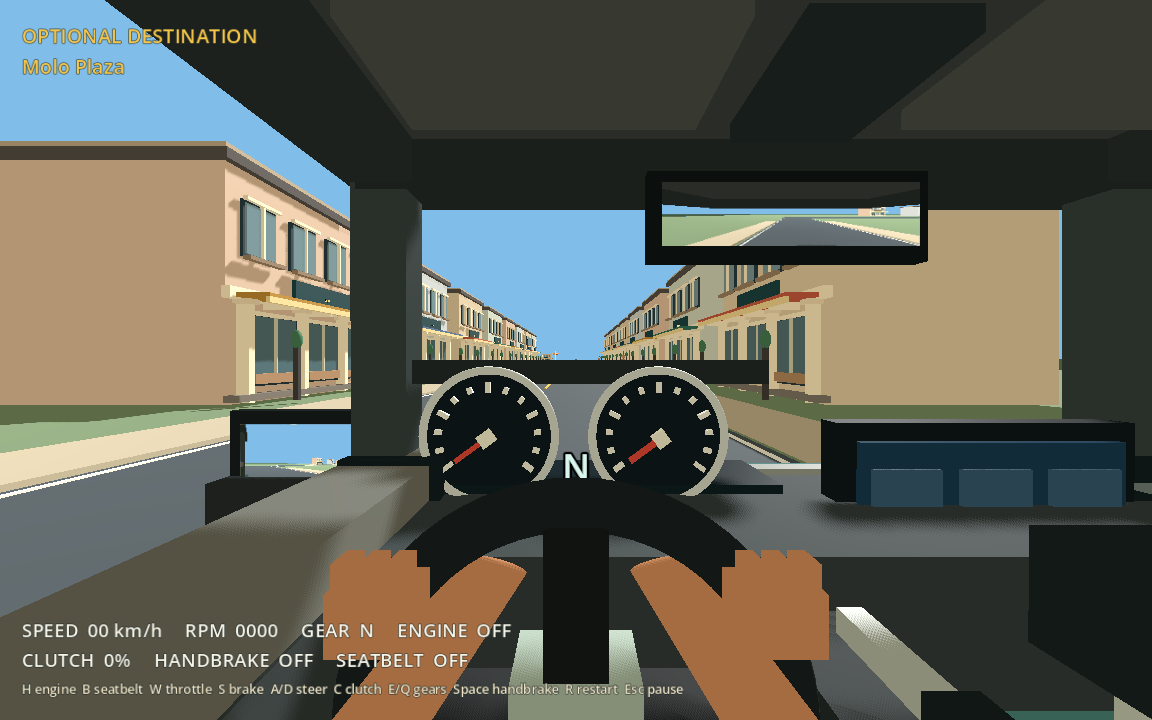
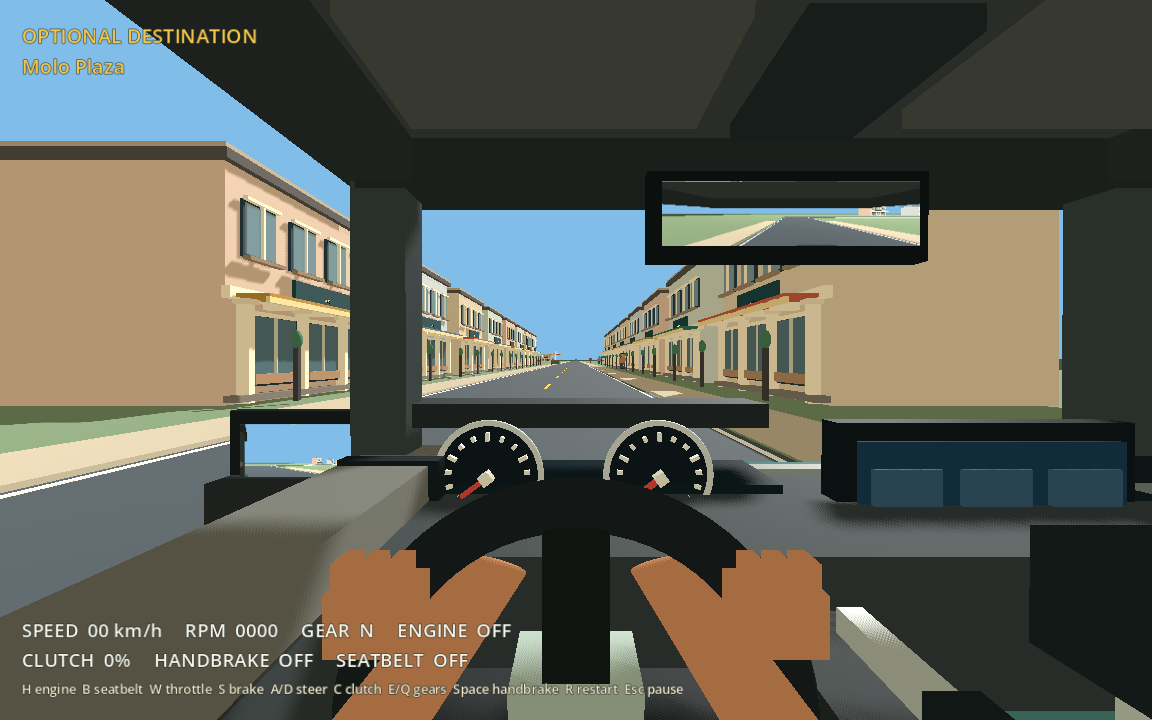
Lower cockpit gauges to reveal near road

diff --git a/README.md b/README.md
@@ -10,6 +10,8 @@ Open `build/ManiubraPrototype.app` on this Mac, or open `project.godot` in Godot
 
 The Open World visual pass includes a [Molo approach](docs/screenshots/open_world_molo.png) with a twin-spire church silhouette, a [roadside Molo Plaza sign](docs/screenshots/open_world_venue_sign.png) at the painted stopping bay, and a [Calle Real-inspired block](docs/screenshots/open_world_calle_real.png) with continuous heritage storefronts. The departure view now has a neighborhood market street rather than empty verges. The Iloilo River Esplanade area has water, a pedestrian frontage and bridge crossings. These are original stylized interpretations; fine architectural detail and the typical A–B travel time still need a manual driving pass.
 
+Open World now shows corrective toasts and records review events for a pedestrian hit, a traffic-vehicle collision, hitting a roadside stall, or crossing the [marked market stop line](docs/screenshots/open_world_stop_approach.png) without stopping. Rejected shifts, blocked ignition and engine stalls also show the same feedback there. The [pedestrian model](docs/screenshots/open_world_pedestrian_upright.png) has separate swinging arms and legs; a vehicle contact makes it [fall](docs/screenshots/open_world_pedestrian_fallen.png). This is a simple animated reaction, not a ragdoll or injury simulation. The smaller, lower gauges reveal more near road in the [current Open World cockpit view](docs/screenshots/open_world_start.png); the speed/RPM HUD remains available.
+
 The sedan's suspension mounts now sit 0.5 m higher relative to the chassis, lowering its ride height and center of gravity while retaining wheel size. Moderate full-steering turns stay planted; a high-speed full-lock turn can still tip it. This is a simplified game handling tune, not a calibrated vehicle dynamics model.
 
 The engine and road WAVs have complete loop ranges. The engine loop starts with H and stops on ignition off or stall; the road loop continues during a lesson. The audio volume setting mutes and restores both sounds; engine pitch follows RPM and road sound grows with speed.
@@ -58,3 +60,4 @@ The next course milestone is Secondary Controls. First finish an exported-app sa
 - The same flow check verifies B-key and button seatbelt toggles, their short arm reach, the upper-left handbrake reminder, and the handbrake reach and lever positions. Both cockpit states were visually inspected in native Metal renders.
 - The earlier release export rebuilt and launched on macOS 26.3.1 (Apple M4 Pro). Its course selection, briefing, straight-ahead first-person view, animated hands, and RPM readout were visually checked in the exported app. Full-resolution lesson and roundabout-map captures were saved. The complete driven run was verified by the scripted Godot check; the roundabout has not yet had a manual exported-app driving playthrough.
 - Persistence was verified with a temporary save override; normal exported-app save/relaunch remains unverified. No physical controller or wheel has been tested. Restricted command-line Godot prints a macOS system-certificate access error and may fail to save global editor settings, despite successful project checks and export.
+- `tests/open_world_flow.gd` passed the optional destination/review flow plus collision-toast deduplication and stopping versus rolling through the authored stop line. `tests/open_world_collision.gd` passed actual Jolt contact checks: the sedan hit a pedestrian and a traffic vehicle, yielding one incident each and a visible pedestrian fall. The Primary Controls flow still passes after the shared cockpit adjustment. Native Metal renders were inspected for road visibility, the stop approach, and upright/fallen pedestrian poses. These checks do not replace a manually driven macOS playthrough.

diff --git a/docs/ARCHITECTURE.md b/docs/ARCHITECTURE.md
@@ -1,6 +1,6 @@
 # Minimal architecture
 
-Status: Primary Controls and an early playable Open World session. The latter uses procedural district geometry, scripted traffic and pedestrians, and a destination badge. Rule evaluators and mature hazard orchestration remain design boundaries.
+Status: Primary Controls and an early playable Open World session. The latter uses procedural district geometry, scripted traffic and pedestrians, a destination badge, and a small set of contact/stop-line incident checks. General rule evaluators and mature hazard orchestration remain design boundaries.
 
 ## Implemented files
 
@@ -25,6 +25,8 @@ scripts/manual_transmission.gd         Clutch-gated manual gearbox
 scripts/attempt_store.gd               Versioned local attempt history
 tests/core_logic.gd                    Transmission and persistence checks
 tests/primary_controls_flow.gd         Scripted complete-lesson check
+tests/open_world_flow.gd                 Destination, incident, stop-line and review checks
+tests/open_world_collision.gd            Physical pedestrian/traffic contact check
 tests/vehicle_stability.gd             Flat-road cornering and rollover check
 tests/audio_playback.gd                Ignition/audio loop and volume-setting check
 tests/training_lot.gd                  Enclosure and obstacle checks
@@ -39,7 +41,7 @@ AGENTS.md                    Repository rules
 
 `app.gd` owns the menu controls and current navigation state. `course_catalog.gd` contains curriculum data only and returns copies of its data. Course IDs are `primary_controls`, `secondary_controls`, `maneuvers`, and `open_world`. The catalog holds one initial combined lesson for each controls course, nine maneuver lessons, and one open-world lesson.
 
-Primary Controls and Open World have real scene paths and are selectable. The remaining briefings accurately show unavailable lessons. `app.gd` owns image-card selection, session creation/removal, a timestamped result timeline, saved results, and retry; `primary_controls.gd` owns its exercise, feedback, upper-left driver check, and upper-right error toast. Rejected shifts, stalls, and blocked ignition show a timed corrective toast while their events remain in attempt history. The driver check reads sedan seatbelt state and handbrake input; its seatbelt button calls the same toggle as the B key. The seatbelt currently affects presentation only. There is no numeric pass/fail score. UI controls are built in scripts to keep the prototype small; extract dedicated scenes only when presentation work makes that useful.
+Primary Controls and Open World have real scene paths and are selectable. The remaining briefings accurately show unavailable lessons. `app.gd` owns image-card selection, session creation/removal, a timestamped result timeline, saved results, and retry; `primary_controls.gd` owns its exercise, feedback, upper-left driver check, and upper-right error toast. Rejected shifts, stalls, and blocked ignition show a timed corrective toast while their events remain in attempt history. Open World also records pedestrian, vehicle and stall contacts, plus rolling through its one marked stop line, and shows corrective toasts. The driver check reads sedan seatbelt state and handbrake input; its seatbelt button calls the same toggle as the B key. The seatbelt currently affects presentation only. There is no numeric pass/fail score. UI controls are built in scripts to keep the prototype small; extract dedicated scenes only when presentation work makes that useful.
 
 ## Current ownership
 

diff --git a/docs/AGENT_IMPLEMENTATION.md b/docs/AGENT_IMPLEMENTATION.md
@@ -6,6 +6,8 @@ Build Maniubra incrementally: a presentable, first-person manual-driving simulat
 
 Implemented now: four-course menu, nine individual maneuver entries, playable Primary Controls and an early playable Open World lesson in a first-person, left-hand-drive manual sedan. Its eight-step enclosed-lot exercise has timestamped feedback, upper-right corrective error toasts for rejected shifts, stalls, and blocked starts, pause/restart/exit, local five-attempt history, original stylized roofed cockpit/road geometry, rear and side mirror views, synthetic audio, and a local macOS export. The sedan now has animated steering and shifting hands, H-key ignition, a B-key and clickable seatbelt toggle with a right-arm reach across the chest toward the left shoulder, an animated handbrake lever beside the steering wheel with a brief hand reach on application and release, low-speed clutch/brake stalling with engine shutdown, stronger propulsion, approximate RPM, tighter suspension, and a camera stabilized against body roll. An upper-left driver check shows seatbelt and handbrake state; the seatbelt is currently a practice indicator, not a scored safety rule. The 160 × 240 m enclosed practice lot has a clear launch lane, painted parking bays, a cone slalom with 17 physical cones, and a circular practice loop. Reusable original 3D shopfront, palm, jeepney, and tricycle scenes sit beyond the walls. The road-user vehicles here are static scenery, and the roundabout is not yet an assessed maneuver. Course and maneuver selections use generated illustrated cards with accurate availability labels. Start is enabled for Primary Controls and Open World. Open World has connected streets, a painted optional Molo Plaza stop, one badge toast per drive, six scripted moving vehicles, seven pedestrians including two conditional crossings, and three collidable vendor stalls. Secondary Controls and individual maneuvers remain unavailable. Physical controller profiles and a sourced 3D asset collection are not validated or added yet.
 
+Open World now has shared-style corrective toasts for shift/ignition/stall errors, pedestrian and traffic-vehicle contacts, roadside-stall contacts, and one authored market stop line. Incidents are included in its review. Pedestrians have separate moving arms and legs plus a simple fall animation on sedan impact. The sedan's gauges sit lower and are smaller to expose more of the near road in first person. `tests/open_world_flow.gd` checks the authored stop condition and event deduplication; `tests/open_world_collision.gd` verifies actual Jolt contact with a pedestrian and another vehicle. Manually drive and tune the sign/line and collision feedback in the exported app before expanding rule coverage.
+
 The sedan now sits lower on its wheels. A flat-road regression check keeps ordinary full-lock cornering planted and still permits rollover at high speed; inspect handling in a manually driven exported-app run before treating the tune as final.
 
 Audio playback was repaired by setting explicit WAV loop endpoints. The engine sound now starts with ignition, stops on shutdown or stall, and loops while running; the volume setting controls both engine and road sounds. A graphical macOS probe measured a live Master-bus signal; confirm audibility on the intended speaker/headphone output during the exported-app playthrough.
